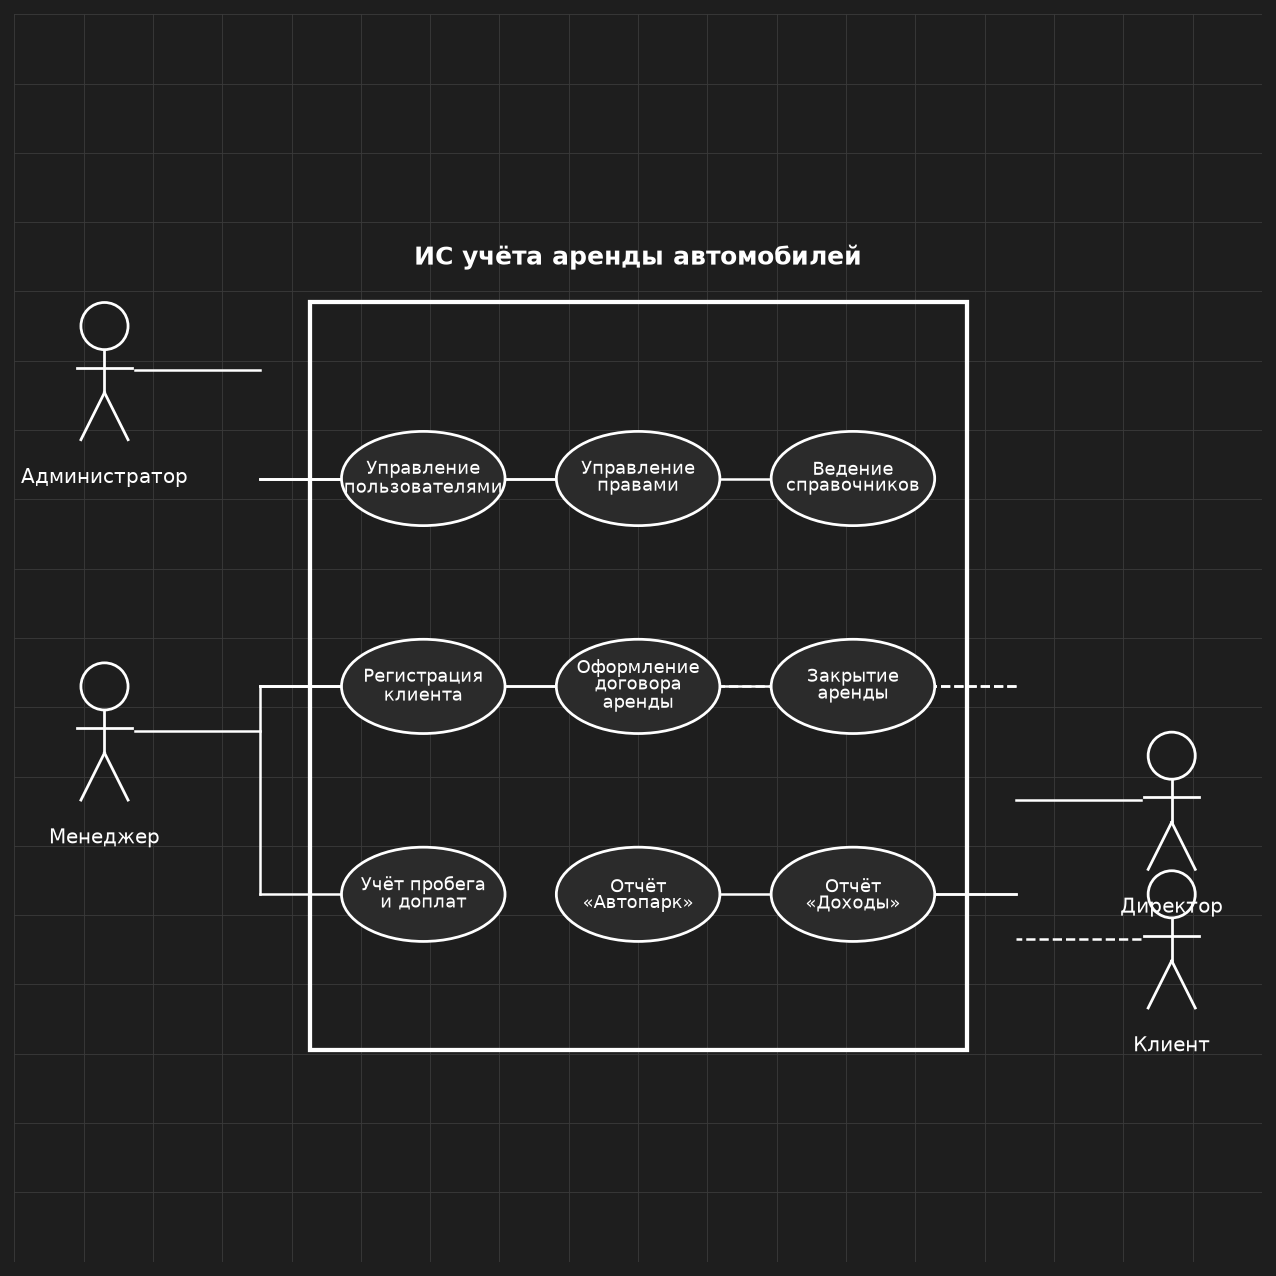
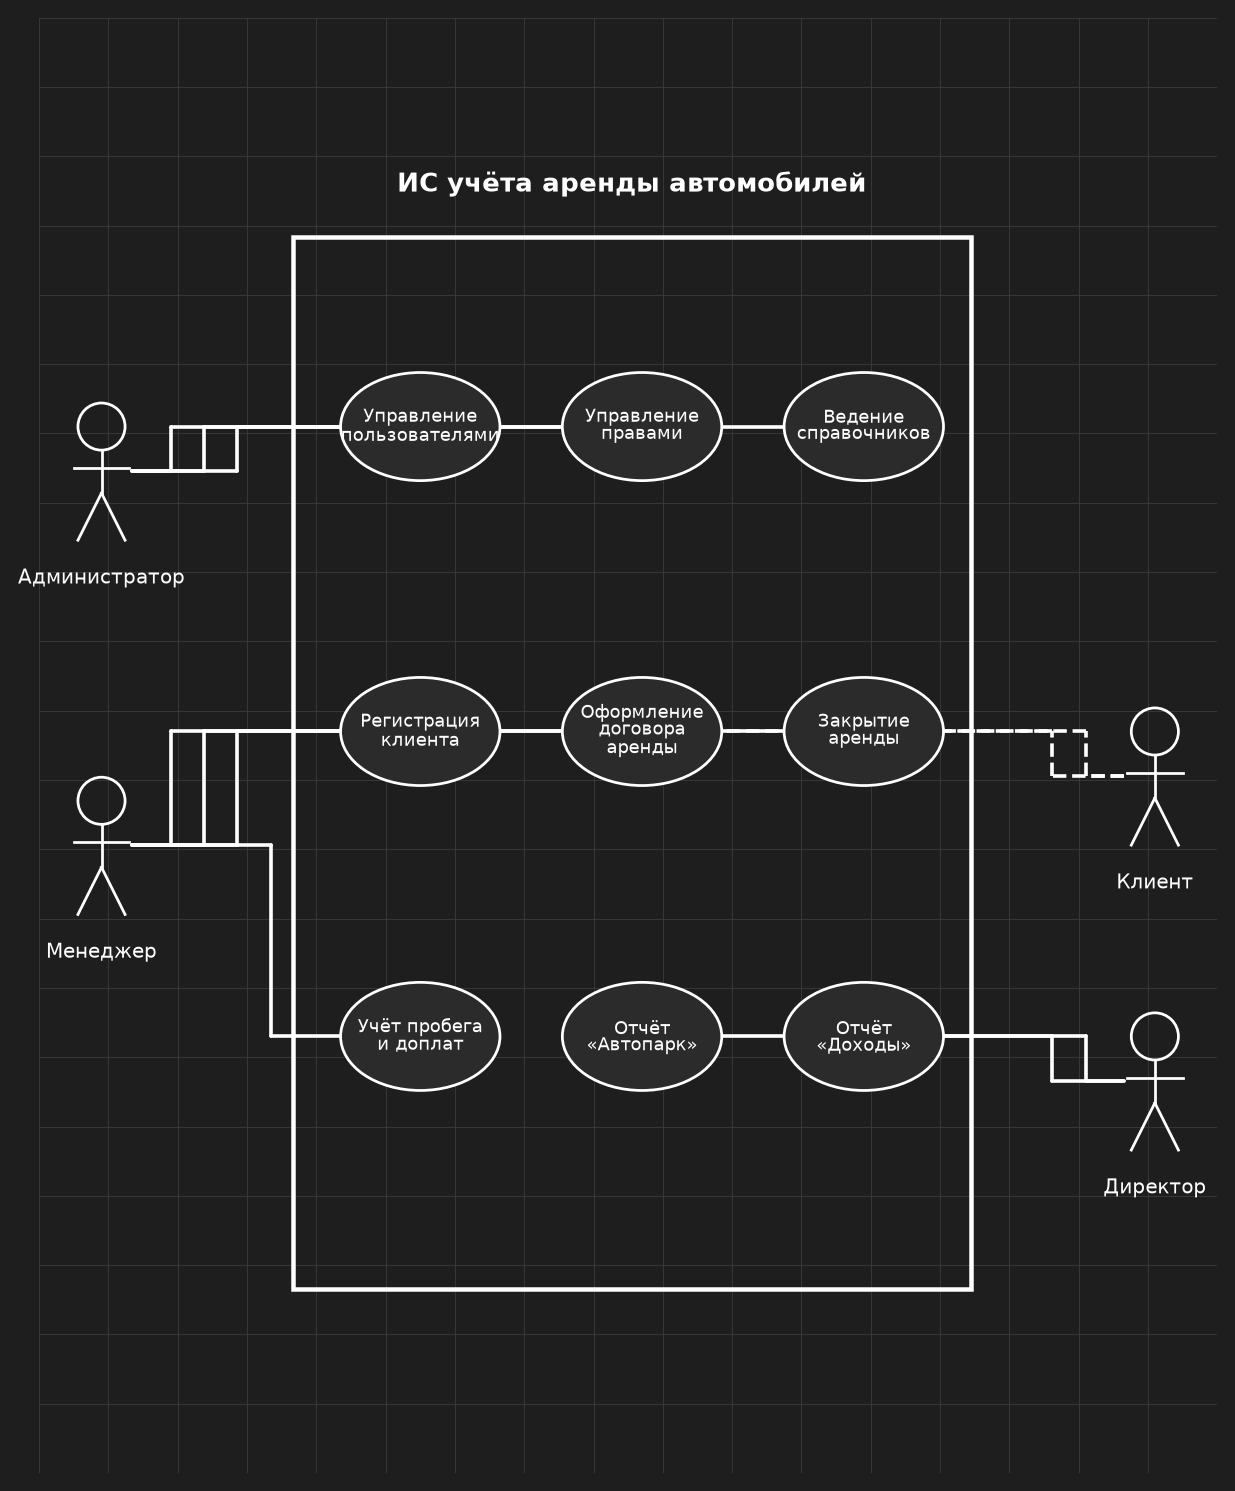
Use Case: вертикальная компоновка, отдельные видимые связи актор→овал

Changed region(s): [[0.0, 0.0917, 0.9538, 0.8864], [0.8308, 0.489, 0.8923, 0.5196]]

diff --git a/diagrams/draw_diagrams.py b/diagrams/draw_diagrams.py
@@ -192,43 +192,46 @@ def uc_actor(ax, x, y, label, side='left'):
     return {'anchor': anchor, 'side': side, 'x': x, 'y': y}
 
 
-def link_actor_bus(ax, actor, ucs, side='left', dashed=False):
-    """Шина: актор → вертикаль → короткие горизонтали к каждому варианту."""
+def link_actor_uc(ax, actor, uc, lane=0, dashed=False, side='left'):
+    """Прямая ортогональная связь актор → овал (каждая линия отдельно)."""
     ax0, ay0 = actor['anchor']
     ls = '--' if dashed else '-'
-    lw = 1.0
+    lw = 1.45
 
     if side == 'left':
-        bus_x = min(max(uc['left'] for uc in ucs) - 0.55, ax0 + 0.9)
-        ax.plot([ax0, bus_x], [ay0, ay0], color=LINE, lw=lw, ls=ls, zorder=1)
-        ys = [uc['cy'] for uc in ucs]
-        ax.plot([bus_x, bus_x], [min(ys), max(ys)], color=LINE, lw=lw, ls=ls, zorder=1)
-        for uc in ucs:
-            ax.plot([bus_x, uc['left']], [uc['cy'], uc['cy']],
-                    color=LINE, lw=lw, ls=ls, zorder=1)
+        mid_x = ax0 + 0.28 + lane * 0.24
+        tx, ty = uc['left'], uc['cy']
     else:
-        bus_x = max(min(uc['right'] for uc in ucs) + 0.55, ax0 - 0.9)
-        ax.plot([ax0, bus_x], [ay0, ay0], color=LINE, lw=lw, ls=ls, zorder=1)
-        ys = [uc['cy'] for uc in ucs]
-        ax.plot([bus_x, bus_x], [min(ys), max(ys)], color=LINE, lw=lw, ls=ls, zorder=1)
-        for uc in ucs:
-            ax.plot([bus_x, uc['right']], [uc['cy'], uc['cy']],
-                    color=LINE, lw=lw, ls=ls, zorder=1)
+        mid_x = ax0 - 0.28 - lane * 0.24
+        tx, ty = uc['right'], uc['cy']
+
+    pts = [(ax0, ay0), (mid_x, ay0), (mid_x, ty), (tx, ty)]
+    for i in range(len(pts) - 1):
+        x1, y1 = pts[i]
+        x2, y2 = pts[i + 1]
+        ax.plot([x1, x2], [y1, y2], color=LINE, lw=lw, ls=ls, zorder=1,
+                solid_capstyle='round')
+
+
+def link_actor_group(ax, actor, ucs, side='left', dashed=False):
+    for i, uc in enumerate(ucs):
+        link_actor_uc(ax, actor, uc, lane=i, dashed=dashed, side=side)
 
 
 def build_use_case():
-    fig, ax = plt.subplots(figsize=(9, 9), dpi=180)
-    draw_grid(ax, (0, 9), (0, 9))
+    # Вертикальный формат — не «плоский», связи хорошо видны
+    fig, ax = plt.subplots(figsize=(8.5, 10.5), dpi=180)
+    draw_grid(ax, (0, 8.5), (0, 10.5))
 
-    bx, by, bw, bh = 2.15, 1.55, 4.7, 5.35
+    bx, by, bw, bh = 1.85, 1.35, 4.85, 7.55
     ax.add_patch(FancyBboxPatch(
         (bx, by), bw, bh, boxstyle='square,pad=0.02',
-        facecolor='none', edgecolor=BOX_EDGE, linewidth=1.7, zorder=2))
-    ax.text(bx + bw / 2, by + bh + 0.25, 'ИС учёта аренды автомобилей',
-            ha='center', va='bottom', fontsize=10, color=TEXT, fontweight='bold')
+        facecolor='none', edgecolor=BOX_EDGE, linewidth=1.8, zorder=2))
+    ax.text(bx + bw / 2, by + bh + 0.3, 'ИС учёта аренды автомобилей',
+            ha='center', va='bottom', fontsize=10.5, color=TEXT, fontweight='bold')
 
-    xs = [2.95, 4.5, 6.05]
-    ys = [5.65, 4.15, 2.65]
+    xs = [2.75, 4.35, 5.95]
+    ys = [7.55, 5.35, 3.15]
     labels = [
         ['Управление\nпользователями', 'Управление\nправами', 'Ведение\nсправочников'],
         ['Регистрация\nклиента', 'Оформление\nдоговора\nаренды', 'Закрытие\nаренды'],
@@ -238,20 +241,21 @@ def build_use_case():
     for row, y in enumerate(ys):
         row_uc = []
         for col, x in enumerate(xs):
-            row_uc.append(uc_ellipse(ax, x, y, labels[row][col]))
+            row_uc.append(uc_ellipse(ax, x, y, labels[row][col], w=1.15, h=0.78, fs=7.1))
         ucs.append(row_uc)
 
-    admin = uc_actor(ax, 0.65, 6.75, 'Администратор', 'left')
-    mgr = uc_actor(ax, 0.65, 4.15, 'Менеджер', 'left')
-    director = uc_actor(ax, 8.35, 3.65, 'Директор', 'right')
-    client = uc_actor(ax, 8.35, 2.65, 'Клиент', 'right')
+    # Акторы по высоте рядом со «своими» вариантами
+    admin = uc_actor(ax, 0.45, 7.55, 'Администратор', 'left')
+    mgr = uc_actor(ax, 0.45, 4.85, 'Менеджер', 'left')
+    director = uc_actor(ax, 8.05, 3.15, 'Директор', 'right')
+    client = uc_actor(ax, 8.05, 5.35, 'Клиент', 'right')
 
-    link_actor_bus(ax, admin, ucs[0], 'left')
-    link_actor_bus(ax, mgr, ucs[1] + [ucs[2][0]], 'left')
-    link_actor_bus(ax, director, ucs[2][1:], 'right')
-    link_actor_bus(ax, client, [ucs[1][1], ucs[1][2]], 'right', dashed=True)
+    link_actor_group(ax, admin, ucs[0], 'left')
+    link_actor_group(ax, mgr, ucs[1] + [ucs[2][0]], 'left')
+    link_actor_group(ax, director, ucs[2][1:], 'right')
+    link_actor_group(ax, client, [ucs[1][1], ucs[1][2]], 'right', dashed=True)
 
-    fig.savefig(OUT_UC, facecolor=BG, bbox_inches='tight', pad_inches=0.08)
+    fig.savefig(OUT_UC, facecolor=BG, bbox_inches='tight', pad_inches=0.1)
     plt.close(fig)
     print('UC OK')
 
